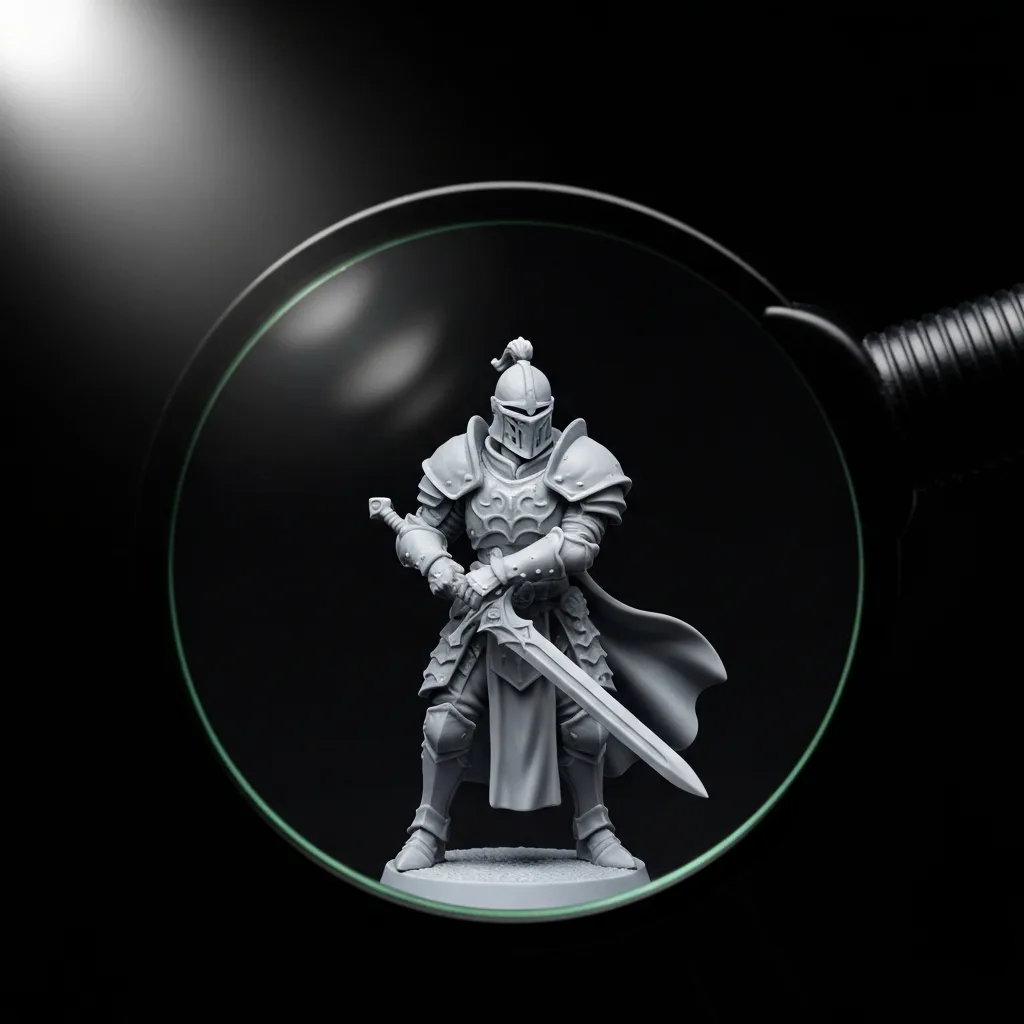
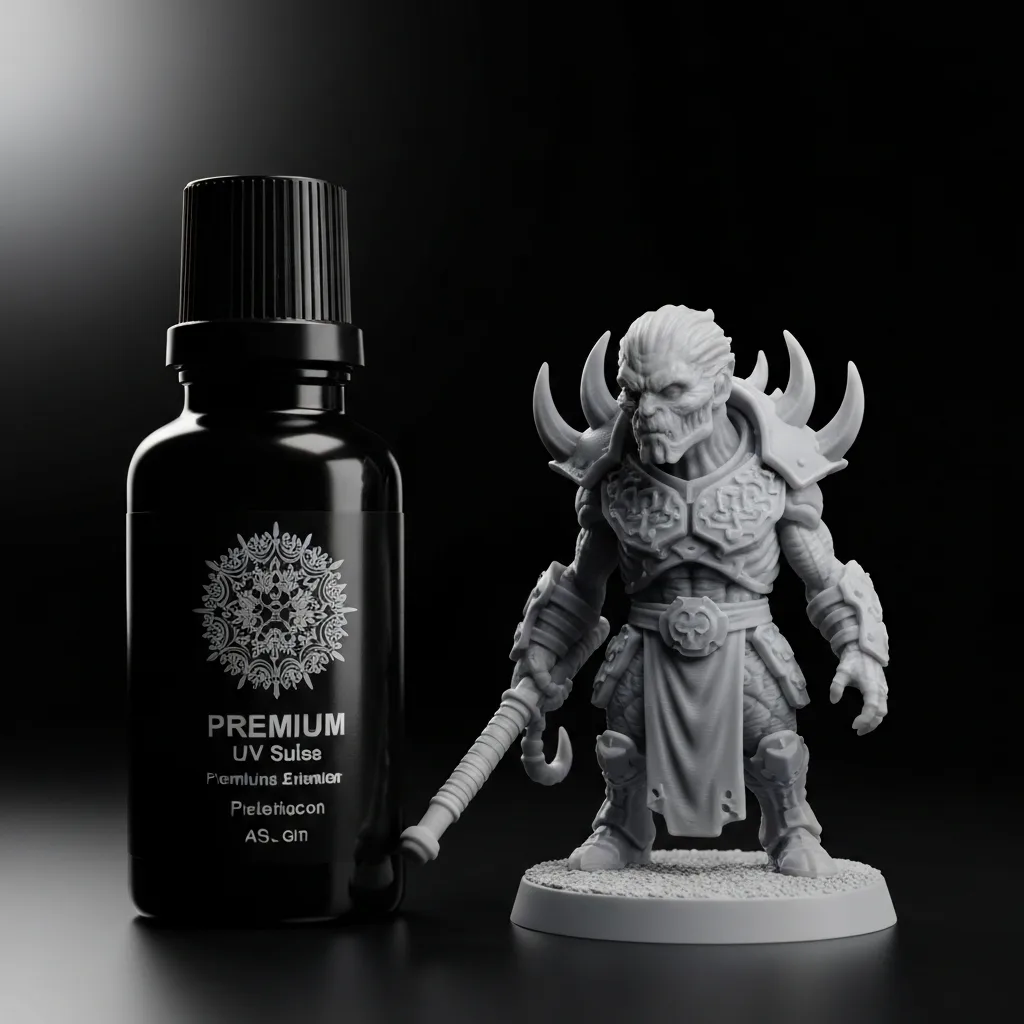
Add image cards to MSLA application step, resin tiles now show bottle plus print
Former resin tiles moved to the application step (prototype, figurine,
casting pattern); resins get new bottle-with-result imagery.

https://claude.ai/code/session_01XvMDpBh2sxgUiF4RtNVnau

diff --git a/src/components/calculators/Print3DCalc.jsx b/src/components/calculators/Print3DCalc.jsx
@@ -59,9 +59,15 @@ export const RESINS = {
 };
 
 export const APPLICATIONS = [
-  { id: "prototype", label: { pl: "Prototyp", en: "Prototype", de: "Prototyp" } },
-  { id: "figurine",  label: { pl: "Figurka / miniatura", en: "Figurine / miniature", de: "Figur / Miniatur" } },
-  { id: "casting",   label: { pl: "Wzorzec odlewniczy", en: "Casting pattern", de: "Gussmodell" } },
+  { id: "prototype", label: { pl: "Prototyp", en: "Prototype", de: "Prototyp" },
+    desc: { pl: "Części, obudowy, testy dopasowania", en: "Parts, housings, fit tests", de: "Teile, Gehäuse, Passtests" },
+    img: "/img/calc/3d_apps/prototype.webp" },
+  { id: "figurine",  label: { pl: "Figurka / miniatura", en: "Figurine / miniature", de: "Figur / Miniatur" },
+    desc: { pl: "Kolekcjonerskie, do gier, dekoracyjne", en: "Collectible, gaming, decorative", de: "Sammler, Gaming, Deko" },
+    img: "/img/calc/3d_apps/figurine.webp" },
+  { id: "casting",   label: { pl: "Wzorzec odlewniczy", en: "Casting pattern", de: "Gussmodell" },
+    desc: { pl: "Biżuteria, odlew lost-resin", en: "Jewelry, lost-resin casting", de: "Schmuck, Lost-Resin-Guss" },
+    img: "/img/calc/3d_apps/casting.webp" },
 ];
 
 export const LAYER_HEIGHTS = [
@@ -631,7 +637,7 @@ export default function Print3DCalc({ lang = "pl" }) {
         </CalcCard>
 
         <CalcCard stepNum="②" label={ml.application}>
-          <Chips options={APPLICATIONS} value={applicationId} onChange={setApplicationId} lang={lang} />
+          <MaterialCards options={APPLICATIONS} value={applicationId} onChange={setApplicationId} lang={lang} cols="grid-cols-3" />
         </CalcCard>
 
         <CalcCard stepNum="③" label={ml.resin}>